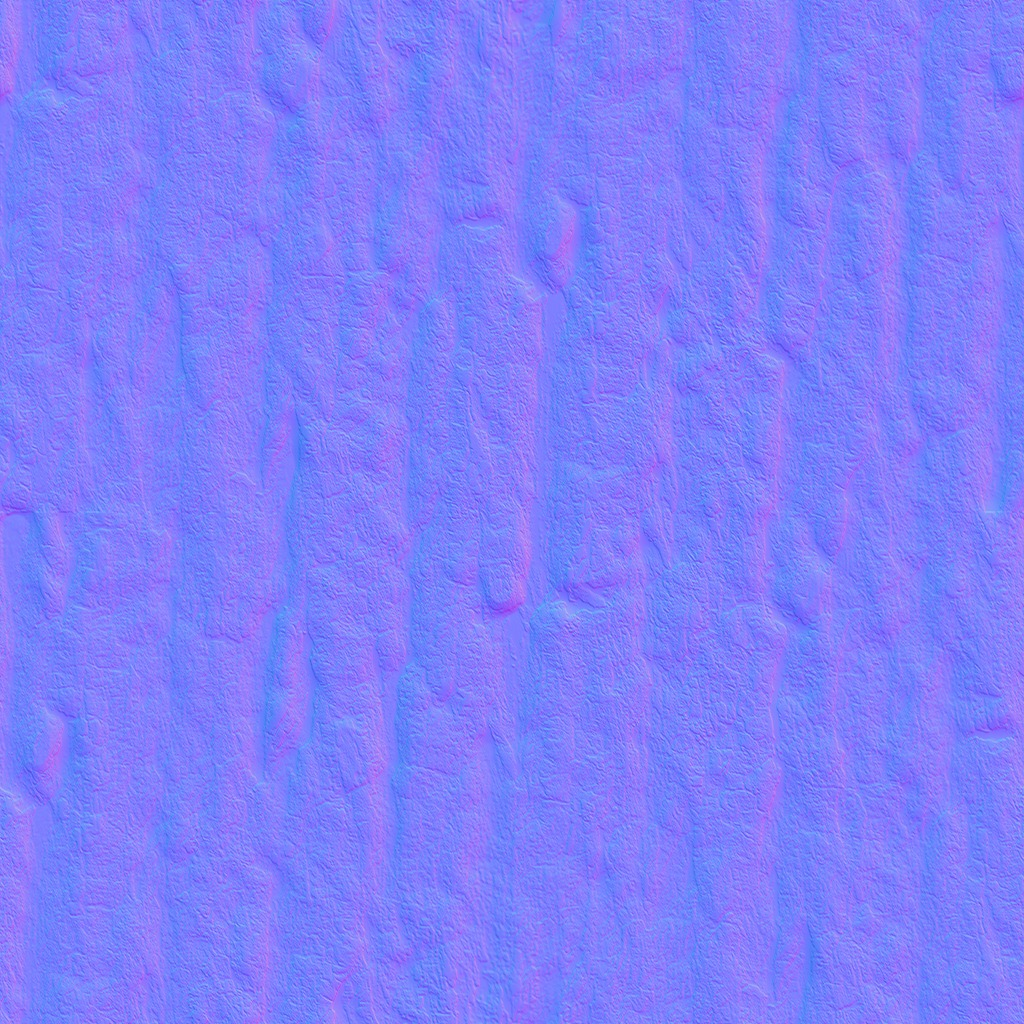
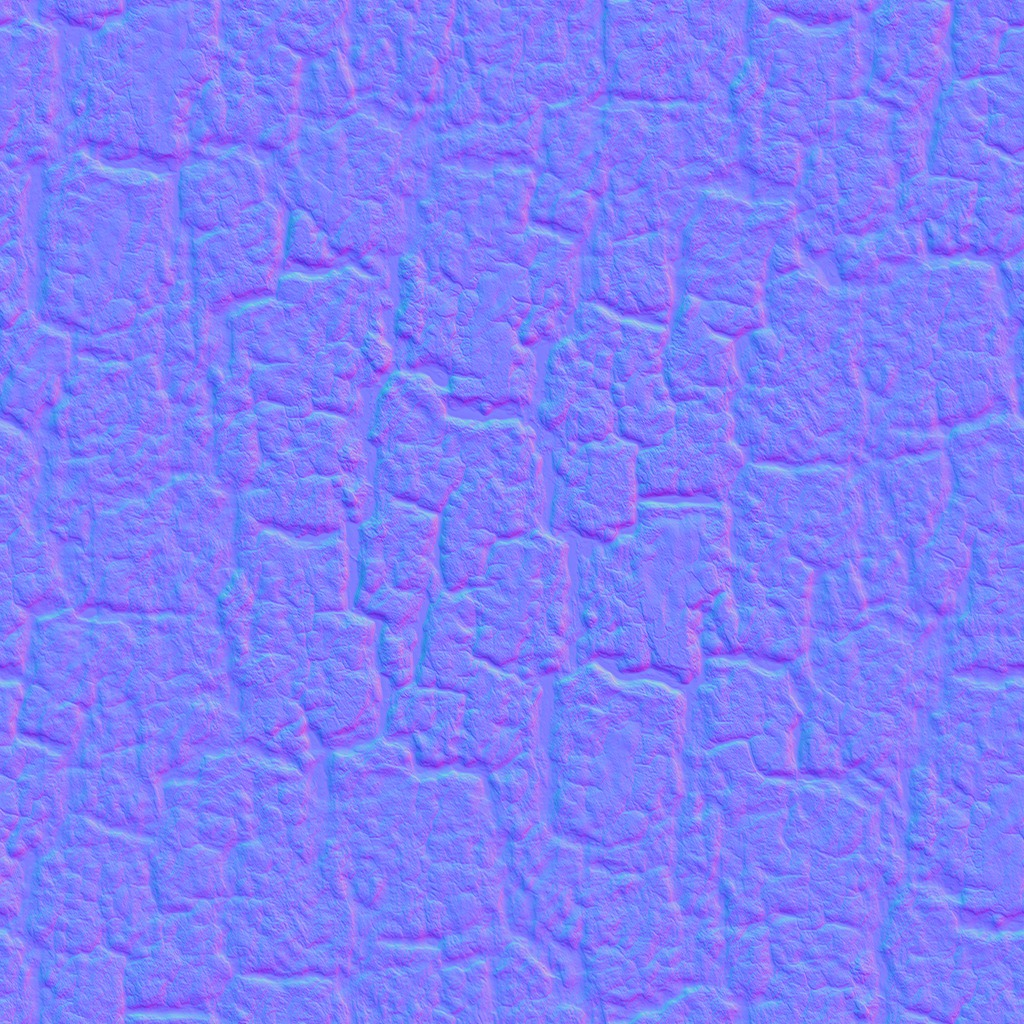
Tree dressing: natural old-oak bark - new Fal reference with irregular blocky plates and branching fissures, less stretch, a second macro read blended by noise against tiling, softer contrast
Claude-Session: https://claude.ai/code/session_015DKXesSZwS7Ynty3LzD4tm

diff --git a/game/treedress.js b/game/treedress.js
@@ -73,36 +73,52 @@ export function createTreeDress(C) {
     const TL = new THREE.TextureLoader(), AS = window.__ASSET || '';
     const ldT = n => { const t = TL.load(AS + n); t.wrapS = t.wrapT = THREE.RepeatWrapping; t.colorSpace = THREE.NoColorSpace; t.anisotropy = MOBILE ? 4 : 8; return t; };
     D.barkU = { mossAmt: { value: 1 }, footDark: { value: 1 }, wet: { value: 0 }, rimK: { value: 1 },
-      nrm: { value: ldT('barkN.jpg') }, hao: { value: ldT('barkH.jpg') }, relief: { value: 1 }, scale: { value: 0.55 } };
+      nrm: { value: ldT('barkN.jpg') }, hao: { value: ldT('barkH.jpg') }, relief: { value: 1 }, scale: { value: 0.55 }, cool: { value: 0.5 } };
     D.update = () => { const rain = Math.max(0, Math.min(1, ((U.wind ? U.wind.value : 1) - 1) / 1.5)); const night = Math.min(1, ENVR.strength.value / 0.8 || 0); D.barkU.wet.value = Math.max(night * 0.35, rain); };
     mat.onBeforeCompile = (sh, r) => {
       if (prev) prev.call(mat, sh, r);
       sh.uniforms.tdMoss = D.barkU.mossAmt; sh.uniforms.tdFoot = D.barkU.footDark; sh.uniforms.tdWet = D.barkU.wet; sh.uniforms.tdRimK = D.barkU.rimK;
-      sh.uniforms.tdNrm = D.barkU.nrm; sh.uniforms.tdHao = D.barkU.hao; sh.uniforms.tdRelief = D.barkU.relief; sh.uniforms.tdScale = D.barkU.scale;
+      sh.uniforms.tdNrm = D.barkU.nrm; sh.uniforms.tdHao = D.barkU.hao; sh.uniforms.tdRelief = D.barkU.relief; sh.uniforms.tdScale = D.barkU.scale; sh.uniforms.tdCool = D.barkU.cool;
       sh.uniforms.tdRimC = ENVR.color; sh.uniforms.tdRimS = ENVR.strength; sh.uniforms.tdRimD = ENVR.dir;
       sh.vertexShader = sh.vertexShader.replace('#include <common>', '#include <common>\nvarying vec3 tdP;varying vec3 tdN;')
         .replace('#include <worldpos_vertex>', '#include <worldpos_vertex>\ntdP=(modelMatrix*vec4(transformed,1.)).xyz;tdN=normalize(mat3(modelMatrix)*objectNormal);');
       sh.fragmentShader = sh.fragmentShader.replace('#include <common>', `#include <common>
-varying vec3 tdP;varying vec3 tdN;uniform float tdMoss,tdFoot,tdWet,tdRimK,tdRimS;uniform vec3 tdRimC,tdRimD;float tdMM=0.,tdWM=0.,tdL=0.,tdFade=0.,tdH=.5;vec3 tdBl=vec3(0.,0.,1.);
+varying vec3 tdP;varying vec3 tdN;uniform float tdMoss,tdFoot,tdWet,tdRimK,tdRimS;uniform vec3 tdRimC,tdRimD;float tdMM=0.,tdWM=0.,tdL=0.,tdFade=0.,tdH=.5;
 uniform sampler2D tdNrm,tdHao;uniform float tdRelief,tdScale;
-// triplanar sample, bark furrows run up the trunk (y is stretched)
-vec4 tdTri(sampler2D t,vec3 p,vec3 bl,float s){return texture2D(t,vec2(p.z,p.y*.42)*s)*bl.x+texture2D(t,p.xz*s)*bl.y+texture2D(t,vec2(p.x,p.y*.42)*s)*bl.z;}
-// triplanar normal (UDN blend): returns the world-space perturbation to add to the surface normal
-vec3 tdTriN(vec3 p,vec3 bl,float s,float k){
- vec3 tx=texture2D(tdNrm,vec2(p.z,p.y*.42)*s).xyz*2.-1.,ty=texture2D(tdNrm,p.xz*s).xyz*2.-1.,tz=texture2D(tdNrm,vec2(p.x,p.y*.42)*s).xyz*2.-1.;
- return (vec3(0.,tx.y,tx.x)*bl.x+vec3(ty.x,0.,ty.y)*bl.y+vec3(tz.x,tz.y,0.)*bl.z)*k;}` + NOISE)
+// triplanar in a frame: A = the way the furrows run (stretched), B and C across. Trunk: A=up, B=x, C=z (fixed world axes).
+// Roots and limbs: A = outwards from the trunk (they radiate from it), B = up, C = the horizontal tangent.
+float tdLf=0.;vec3 tdA=vec3(0.,1.,0.),tdB=vec3(1.,0.,0.),tdC=vec3(0.,0.,1.);
+vec3 tdW(vec3 n,vec3 A,vec3 B,vec3 C){vec3 b=pow(abs(vec3(dot(n,B),dot(n,C),dot(n,A))),vec3(4.));return b/(b.x+b.y+b.z);}
+vec4 tdS(sampler2D t,vec3 p,vec3 n,vec3 A,vec3 B,vec3 C,float s){vec3 w=tdW(n,A,B,C);float a=dot(p,A)*.8;
+ return texture2D(t,vec2(dot(p,C),a)*s)*w.x+texture2D(t,vec2(dot(p,B),a)*s)*w.y+texture2D(t,vec2(dot(p,B),dot(p,C))*s)*w.z;}
+vec3 tdSN(vec3 p,vec3 n,vec3 A,vec3 B,vec3 C,float s,float k){vec3 w=tdW(n,A,B,C);float a=dot(p,A)*.8;
+ vec3 tx=texture2D(tdNrm,vec2(dot(p,C),a)*s).xyz*2.-1.,ty=texture2D(tdNrm,vec2(dot(p,B),a)*s).xyz*2.-1.,tz=texture2D(tdNrm,vec2(dot(p,B),dot(p,C))*s).xyz*2.-1.;
+ return ((C*tx.x+A*tx.y)*w.x+(B*ty.x+A*ty.y)*w.y+(B*tz.x+C*tz.y)*w.z)*k;}
+// both mappings, blended between the trunk and the roots / limbs
+vec4 tdTri(sampler2D t,vec3 p,vec3 n,float s){vec4 a=vec4(0.),b=vec4(0.);
+ if(tdLf<.99)a=tdS(t,p,n,vec3(0.,1.,0.),vec3(1.,0.,0.),vec3(0.,0.,1.),s);if(tdLf>.01)b=tdS(t,p,n,tdA,tdB,tdC,s);return mix(a,b,tdLf);}
+vec3 tdTriN(vec3 p,vec3 n,float s,float k){vec3 a=vec3(0.),b=vec3(0.);
+ if(tdLf<.99)a=tdSN(p,n,vec3(0.,1.,0.),vec3(1.,0.,0.),vec3(0.,0.,1.),s,k);if(tdLf>.01)b=tdSN(p,n,tdA,tdB,tdC,s,k);return mix(a,b,tdLf);}
+uniform float tdCool;` + NOISE)
         .replace('#include <map_fragment>', `#include <map_fragment>
         {
           vec3 wn=normalize(tdN); float y=tdP.y;
           // ---- bark relief: light worn crust on the ridges, deep dark furrows, fibrous detail up close ----
-          tdBl=pow(abs(wn),vec3(4.));tdBl/=tdBl.x+tdBl.y+tdBl.z;
+          { vec2 rv=tdP.xz-vec2(${AX.toFixed(3)},${AZ.toFixed(3)}); float r=length(rv); vec3 rad=r>1e-3?vec3(rv.x/r,0.,rv.y/r):vec3(1.,0.,0.);
+            // roots and limbs: furrows along them. Near the ground the roots run outwards; higher up the limbs rise a little as they go out.
+            tdA=normalize(rad+vec3(0.,y>3.?.25:0.,0.)); tdC=vec3(-rad.z,0.,rad.x); tdB=normalize(cross(tdC,tdA));
+            tdLf=smoothstep(2.5,3.7,r); }
           tdFade=1.-smoothstep(5.,16.,length(cameraPosition-tdP));
-          vec4 ha=tdTri(tdHao,tdP,tdBl,tdScale), hb=tdTri(tdHao,tdP*1.0+7.3,tdBl,tdScale*4.);
+          float brk=smoothstep(.3,.7,td_n(tdP*vec3(.45,.3,.45)+11.));
+          vec4 ha=mix(tdTri(tdHao,tdP,wn,tdScale),tdTri(tdHao,tdP*1.37+vec3(3.1,1.7,5.3),wn,tdScale),brk), hb=tdTri(tdHao,tdP+7.3,wn,tdScale*3.3);
           tdH=ha.r;float cav=ha.g*mix(1.,.6+.4*hb.g,tdFade);
           float rel=tdRelief;
-          diffuseColor.rgb*=mix(1.,mix(.3,1.3,smoothstep(.05,.95,tdH))*mix(.35,1.,cav),rel);
+          diffuseColor.rgb*=mix(1.,mix(.55,1.15,smoothstep(.05,.95,tdH))*mix(.6,1.,cav),rel);
           diffuseColor.rgb*=mix(1.,.82+.36*hb.b,tdFade*rel);
-          { float g=dot(diffuseColor.rgb,vec3(.33)); diffuseColor.rgb=mix(diffuseColor.rgb,vec3(g*1.05,g*1.03,g*1.0),smoothstep(.62,.92,tdH)*.35*rel); }
+          { float g=dot(diffuseColor.rgb,vec3(.33)); diffuseColor.rgb=mix(diffuseColor.rgb,vec3(g*1.05,g*1.03,g*1.0),smoothstep(.62,.92,tdH)*.35*rel);
+            // the photo's oak is a cooler grey-brown than the warm model texture, with violet-blue in the furrows and shadows
+            diffuseColor.rgb=mix(diffuseColor.rgb,g*vec3(1.08,.97,.9),.35*tdCool);
+            diffuseColor.rgb*=mix(vec3(1.),mix(vec3(.82,.8,1.05),vec3(1.),smoothstep(.15,.6,tdH)),tdCool); }
           vec2 ax=tdP.xz-vec2(${AX.toFixed(3)},${AZ.toFixed(3)}); float rd=length(ax);
           float lum=dot(diffuseColor.rgb,vec3(.3,.59,.11));
           // big soft patches + fine breakup
@@ -139,7 +155,8 @@ vec3 tdTriN(vec3 p,vec3 bl,float s,float k){
         .replace('#include <normal_fragment_maps>', `#include <normal_fragment_maps>
         {
           vec3 wn=normalize(tdN);
-          vec3 dn=tdTriN(tdP,tdBl,tdScale,4.5)+tdTriN(tdP+7.3,tdBl,tdScale*4.,1.6)*tdFade;
+          float brk=smoothstep(.3,.7,td_n(tdP*vec3(.45,.3,.45)+11.));
+          vec3 dn=mix(tdTriN(tdP,wn,tdScale,3.),tdTriN(tdP*1.37+vec3(3.1,1.7,5.3),wn,tdScale,3.*1.37),brk)+tdTriN(tdP+7.3,wn,tdScale*3.3,1.1)*tdFade;
           vec3 nw=normalize(wn+dn*tdRelief*(1.-tdMM*.7));
           vec3 nv=normalize((viewMatrix*vec4(nw,0.)).xyz);
           normal=normalize(mix(normal,nv,.92));
@@ -155,7 +172,7 @@ vec3 tdTriN(vec3 p,vec3 bl,float s,float k){
         }`);
     };
     const prevKey = mat.customProgramCacheKey ? mat.customProgramCacheKey.bind(mat) : () => '';
-    mat.customProgramCacheKey = () => prevKey() + '|treedress3';
+    mat.customProgramCacheKey = () => prevKey() + '|treedress5';
     mat.needsUpdate = true;
   }
 

diff --git a/pipeline/bark_maps.py b/pipeline/bark_maps.py
@@ -31,7 +31,7 @@ def blur(x, r):
     return x
 
 # height: large-scale ridges (low-pass of luminance) + some mid detail, normalised
-low = blur(lum, S / 128)
+low = blur(lum, S / 300)
 big = blur(lum, S / 16)
 hgt = (low - big)
 hgt = (hgt - np.percentile(hgt, 2)) / (np.percentile(hgt, 98) - np.percentile(hgt, 2))
